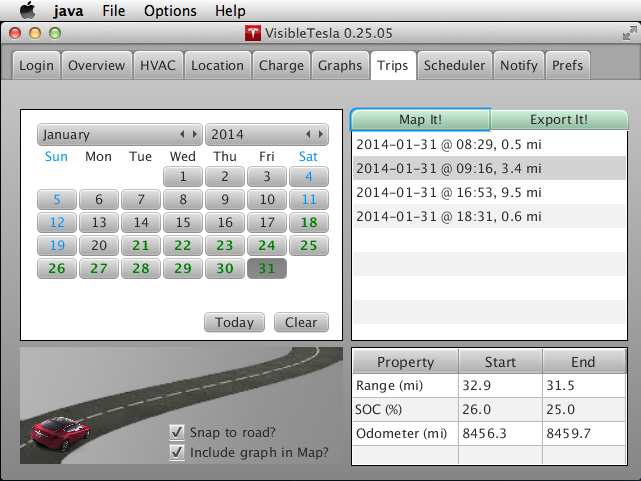
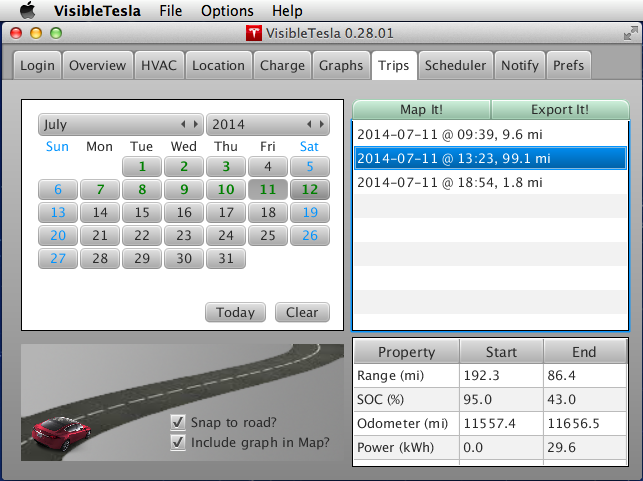
Update Documentation for 0.28.01

diff --git a/Documentation/ReleaseNotes.html b/Documentation/ReleaseNotes.html
@@ -1,3 +1,4 @@
+<!DOCTYPE html>
 <html>
 	<head>
 		<meta http-equiv="Content-Type" content="text/html; charset=utf-8">
@@ -18,6 +19,92 @@
 			<h1>
 				VisibleTesla Release Notes
 			</h1>
+		<h3>
+			VisibleTesla 0.28.01 [07-17-2014]
+		</h3>
+		<ul>
+			<li>User-Visible Changes
+				<ul>
+					<li>General
+						<ul>
+							<li>
+								<span class="added">Addition</span>: On the Mac you can now use <span class="ui">&#8984;-H</span>  to hide a window just like you can with other Mac apps. Note that unlike other Mac applications, you won't see this shortcut listed in the application menu. This is a deficiency with JavaFX on the Mac. Using <span class="ui">&#8984;-H</span> is the same as pressing the yellow minimize icon. On Windows 7 you and beyond you can use <span class="ui"><img src="images/other/WinKey.gif"> +↓</span> to minimize the VisibleTesla window. This has always been there. 
+							</li>
+							<li>
+								<span class="changed">Refinement</span>: <strong>For advanced users only - EXPERIMENTAL.</strong>You may now set an advanced preference that specifies a URL that holds custom pages that can be served up by the built-in web server. Use template variables to customize the pages. See the <a href="pages/PrefsTab.html">Prefs Tab</a> and <a href="pages/OtherTopics.html#rest">Web Services</a> for details.
+							</li>
+							<li>
+								<span class="fixed">Fix</span>: The <span class="ui">Help->What's New</span> menu item works again.
+							</li>
+							<li>
+								<span class="fixed">Fix</span>: Fixed a minor issue with login to the web services which only affected those who are using this experimental feature.
+							</li>
+						</ul>
+					</li>
+					<li>Login
+						<ul>
+						</ul>
+					</li>
+					<li>Overview
+						<ul>
+						</ul>
+					</li>
+					<li>HVAC
+						<ul>
+						</ul>
+					</li>
+					<li>Location
+						<ul>
+						</ul>
+					</li>
+					<li>Charge
+						<ul>
+						</ul>
+					</li>
+					<li>Graphs
+						<ul>
+						</ul>
+					</li>
+					<li>Trips
+						<ul>
+							<li>
+								<span class="added">Addition</span>: There is a new row in the Trip property table. In addition to displaying the starting and ending value for Range, SOC, and Odometer, it now displays an estimate of the power consumed in the selected trip (or trips). <strong>This is purely an estimate.</strong> It is not a value reported by the car, but rather a rough integration of area under the power curve that you see plotted in the Graphs Tab.
+							</li>
+						</ul>
+					</li>
+					<li>Scheduler
+						<ul>
+						</ul>
+					</li>
+					<li>Notify
+						<ul>
+							<li>
+								<span class="changed">Refinement</span>: Added the variable {{HT_SPEEDO}} and {{HT_LOC}} for for use in message templates. For details, please refer to the documention on the <a href="pages/NotifyTab.html#custom_messages">Notify Tab</a>.
+							</li>
+							<li>
+								<span class="changed">Refinement</span>: The {{HT_SOC_G}} variable now more accurately represents the charge state.
+							</li>
+						</ul>
+					</li>
+					<li>Prefs
+						<ul>
+						</ul>
+					</li>
+				</ul>
+			</li>
+			<li>Under-the-covers
+				<ul>
+					<li>VisibleTesla is using HTML5 Canvas to render the {{HT_SOC_G}} and {{HT_SPEEDO}} elements.</li>
+				</ul>
+			</li>
+			<li>Known problems
+				<ul>
+					<li>There are situations where VisibleTesla will stop recording data from the car. This can result in gaps in the Graphs and missing Trips. Debugging and testing is ongoing to address this problem.
+					</li>
+				</ul>
+			</li>
+		</ul>
+		<hr>
 			<h3>
 				VisibleTesla 0.28.00 [07-05-2014] - <font color="red">[EXPERIMENTAL]</font>
 			</h3>
@@ -74,7 +161,7 @@
 									<span class="fixed">Fix</span>: A bug crept back into notification messages that caused speed to be reported in the wrong units in some cases. That has been addressed.
 								</li>
 								<li>
-									<span class="changed">Refinement</span>: Added new variables for custom messages {{HT_SOC_G}}, {{HT_ODO}}, and {{ODO}}. For details, please refer to the documention on the <a href="pages/NotifyTab.html#custom_messages">Notify Tab</a>.
+									<span class="changed">Refinement</span>: Added new variables for custom messages: {{HT_SOC_G}}, {{HT_ODO}}, and {{ODO}}. For details, please refer to the documention on the <a href="pages/NotifyTab.html#custom_messages">Notify Tab</a>.
 								</li>
 							</ul>
 						</li>
@@ -102,6 +189,7 @@
 					<ul>
 						<li>There are situations where VisibleTesla will stop recording data from the car. This can result in gaps in the Graphs and missing Trips. Debugging and testing is ongoing to address this problem.
 						</li>
+						<li>The <span class="ui">Help->What's New</span> menu item is broken. For the time being please use the <span class="ui">Help->Documentation</span> menu item and then click on <span class="ui">Release Notes</span>. Alternatively, you click <a href="http://visibletesla.com/Documentation/ReleaseNotes.html">here</a>.</li>	
 					</ul>
 				</li>
 			</ul>

diff --git a/Documentation/pages/OtherTopics.html b/Documentation/pages/OtherTopics.html
@@ -196,10 +196,10 @@
                 Speaking of overloading Tesla's servers, VisibleTesla automatically monitors the rate at which it makes requests. If you manually press refresh multiple times in rapid succession, you may find that the spinner rotates for a longer than usual. The app is automatically slowing down its requests to Tesla's servers in order to remain a good citizen. The app may also choose to refresh certain items less frequently than others. For example, the odometer reading on the <a href="OverviewTab.html">Overview Tab</a>. Since even at 60 mph the reading doesn't change much every minute, the app does not update it on every auto-refresh.
             </p>
             <h2>
-                <a name="rest">REST Services</a>
+                <a name="rest">Web Services</a>
             </h2>
             <p>
-                <strong>For advanced users only - EXPERIMENTAL.</strong> VisibleTesla includes the ability to accept a *very* limited set of commands via http. At the moment, the only functionality available is setting the app's <a href="pages/SleepMode.html">inactivity mode</a>. Support for REST services is off by default and should only be used by people who are comfortable with direct access to these sorts of services. If you do enable the service, it is protected via <code>HTTP Basic Authentication.</code> To enable this feature, read more about the settings in the <a href="pages/PrefsTab.html">Prefs Tab</a>.
+                <strong>For advanced users only - EXPERIMENTAL.</strong> VisibleTesla includes the ability to accept a *very* limited set of commands via http. At the moment, the only functionality available is setting the app's <a href="pages/SleepMode.html">inactivity mode</a>. Support for web (REST) services is off by default and should only be used by people who are comfortable with direct access to these sorts of services. If you do enable the service, it is protected via <code>HTTP Basic Authentication.</code> To enable this feature, read more about the settings in the <a href="pages/PrefsTab.html">Prefs Tab</a>.
             </p>
             <p>
                 Once the service is enabled, you have selected a port (or used the default), and have set an authorization code (password), you may access the functionality using a web browser or a command line utility such as curl. The username for all commands is "VT". The password is whatever you establish in the preferences. Note that by default, these services will be visible only on your local network. To access them remotely, you must manually set up port forwarding or use other methods. This is for experienced network users only.
@@ -370,6 +370,13 @@
             </table>
             <p>
                 Requesting status in this way will <strong>not</strong> wake up your car if it is sleeping. The data you receive will be the last known data. The car will not be asked for new information. The date and time shown at the top of the table correspond to when the table was prepared. the values in the table might be slightly older (or much older if your car is sleeping).
+            </p>
+            <h3>Custom Pages</h3>
+            <p>
+                VisibleTesla can serve up web pages that are designed by you and can include template variables. You need to store these pages in a folder where VisibleTesla can find them. That folder can be on the web or on your local machine. Either way, the location is specified by a URL in the <a href="PrefsTab.html">Advanced Preferences</a>. To access custom pages in this folder, use URLs of the form: <code>http://localhost:9090/custom/MyCustomPage.html</code>
+            </p>
+            <p>
+                In this example, you would have a file named MyCustomPage.html stored in the folder that you specified in the advanced preferences.
             </p>
             <h2>
                 <a name="simulation">Simulation</a>

diff --git a/Documentation/pages/NotifyTab.html b/Documentation/pages/NotifyTab.html
@@ -303,10 +303,11 @@
 				</tr>
 				<tr>
 					<td>
-						<code>{{LOC}}</code>
+						<code>{{LOC}}</code><BR>
+						<code>{{HT_LOC}}</code>
 					</td>
 					<td>
-						The last known location of the vehicle. The location presented is derived by taking the last known latitiude and longitude and asking Google for the closest known address. If Google cannot produce a result, the raw latitiude and longitude will be presented.
+						The last known location of the vehicle. The location presented is derived by taking the last known latitiude and longitude and asking Google for the closest known address. If Google cannot produce a result, the raw latitiude and longitude will be presented. If you use <code>{{HT_LOC}}</code>, the resulting string will be wrapped in an HTML link that points to a Google map centered on the given position.
 					</td>
 				</tr>
 				<tr>
@@ -466,7 +467,7 @@
 				Accessing a URL: Advanced Users Only
 			</h2>
 			<p>
-				When a notification occurs, VisibleTesla can perform an HTTP GET on a URL instead of sending an email. This mechanism allows notifications to trigger web services for home automation or other purposes. To use this feature, set the notification email in any custom notification setting to a URL rather than an email address. The URL must begin with <code>http://</code> or <code>https://</code>. It must be a fully formed URL with any special characters URL-encoded. If VisibleTesla sees a URL rather than an email, it will perform an HTTP GET on that URL. It <strong>will not</strong> check error codes returned from the server nor process any returned data. The custom subject field will be ignored.
+				When a notification occurs, VisibleTesla can perform an <code>HTTP GET</code> on a URL instead of sending an email. This mechanism allows notifications to trigger web services for home automation or other purposes. To use this feature, set the notification email in any custom notification setting to a URL rather than an email address. The URL must begin with <code>http://</code> or <code>https://</code>. It must be a fully formed URL with any special characters URL-encoded. If VisibleTesla sees a URL rather than an email, it will perform an <code>HTTP GET</code> on that URL. It <strong>will not</strong> check error codes returned from the server nor process any returned data. The custom subject field will be ignored.
 			</p>
 			<p>
 				A sample use case might be turning on outside lights at your home when your car is approaching. To do this you would start by setting up the <span class="ui">Car entered area</span> notification. You would then press the <span class="ui">+ button</span> to bring up the custom address dialog as shown below. Now you can enter the URL corresponding to the "Lights On" command of your home automation controller. Put it in the <span class="ui">EMail</span> field where you would normally put an email address.

diff --git a/Documentation/pages/PrefsTab.html b/Documentation/pages/PrefsTab.html
@@ -221,6 +221,14 @@
                     </tr>
                     <tr>
                         <td>
+                            <span class="ui">Custom Page Source</span>
+                        </td>
+                        <td>
+                            This is the URL of a directory which contains custom HTML pages designed by you. It is up to you to host these files at this URL. The URL may refer to a local folder or a URL on a web server. You can use a public Dropbox folder as a web server if you'd like. Local folders are specified with URLs of the form: <code>file:///PATH_TO_FOLDER</code>. These pages will be served up by VisibleTesla's built-in web server under the URL: <code>http://127.0.0.1:9090/custom/PageName.html</code>. See the <a href="OtherTopics.html#rest">Other Topics</a> page for details.
+                        </td>
+                    </tr>
+                    <tr>
+                        <td>
                             <span class="ui">Show App Files</span>
                         </td>
                         <td>

diff --git a/Documentation/pages/TripsTab.html b/Documentation/pages/TripsTab.html
@@ -32,6 +32,8 @@
                 </li>
                 <li>Starting and Ending Odometer reading
                 </li>
+                <li>Estimated Power Usage: An estimate of the power consumed in the selected trip (or trips). <strong>This is purely an estimate.</strong> It is not a value reported by the car, but rather a rough integration of the area under the power curve that you see plotted in the Graphs Tab.
+                </li>
             </ul>
             <p>
                 The following screen shot shows a single day selected, a single trip from that day selected, and data about that trip shown in the property table.

diff --git a/Documentation/scripts/hsp.js b/Documentation/scripts/hsp.js
@@ -7,7 +7,7 @@ function hereDoc(f) {
 document.write(hereDoc(function() {/*!
     <div id="header">
         <div class="wrap">
-            <a href="../site_index.html"><img src="../images/Banner.png"></a>
+            <a href="../site_index.html"><img src="../images/Banner.png" style="display:block;"></a>
         </div>
         <div class="gsc-div">
             <gcse:search></gcse:search>

diff --git a/Documentation/scripts/hsr.js b/Documentation/scripts/hsr.js
@@ -7,7 +7,7 @@ function hereDoc(f) {
 document.write(hereDoc(function() {/*!
     <div id="header">
         <div class="wrap">
-            <a href="site_index.html"><img src="images/Banner.png"></a>
+            <a href="site_index.html"><img src="images/Banner.png" style="display:block;"></a>
         </div>
         <div class="gsc-div">
             <gcse:search></gcse:search>

diff --git a/Documentation/pages/toc.html b/Documentation/pages/toc.html
@@ -70,7 +70,7 @@
 							<a href="OtherTopics.html#autorefresh">Data Collection</a>
 						</li>
 						<li>
-							<a href="OtherTopics.html#rest">REST Services</a>
+							<a href="OtherTopics.html#rest">Web Services</a>
 						</li>
 						<li>
 							<a href="OtherTopics.html#simulation">Simulation</a>
